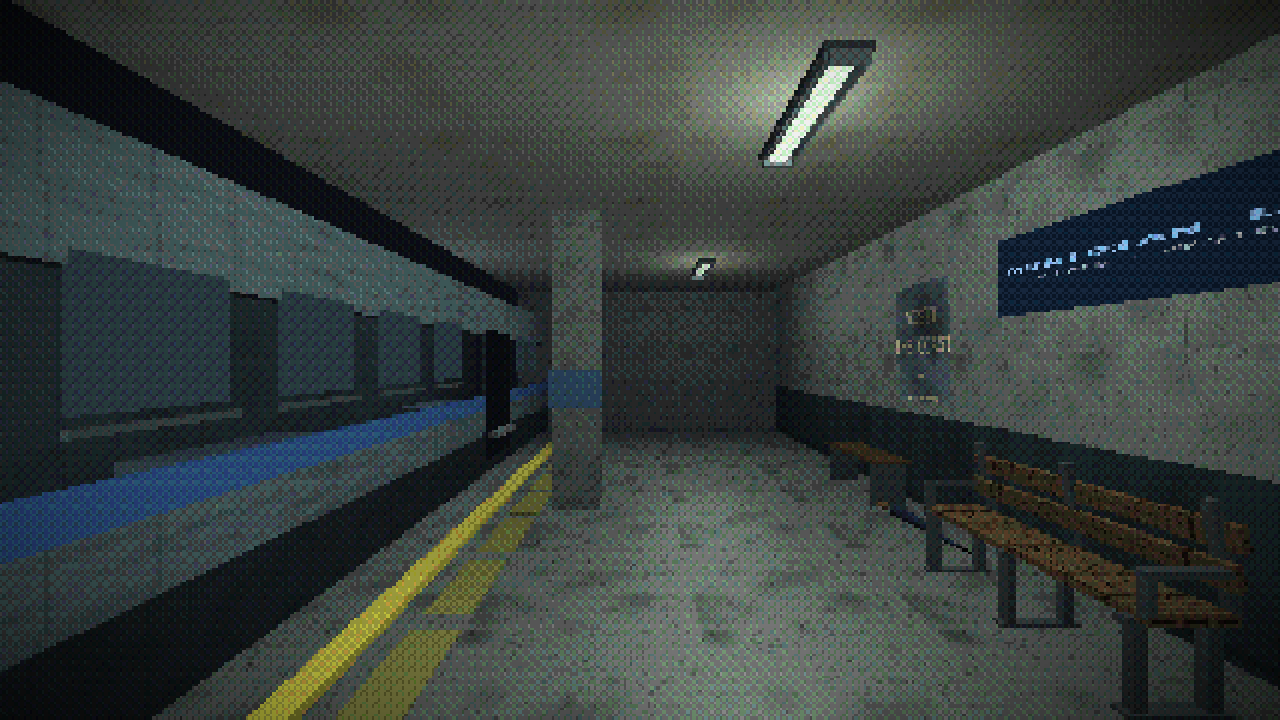
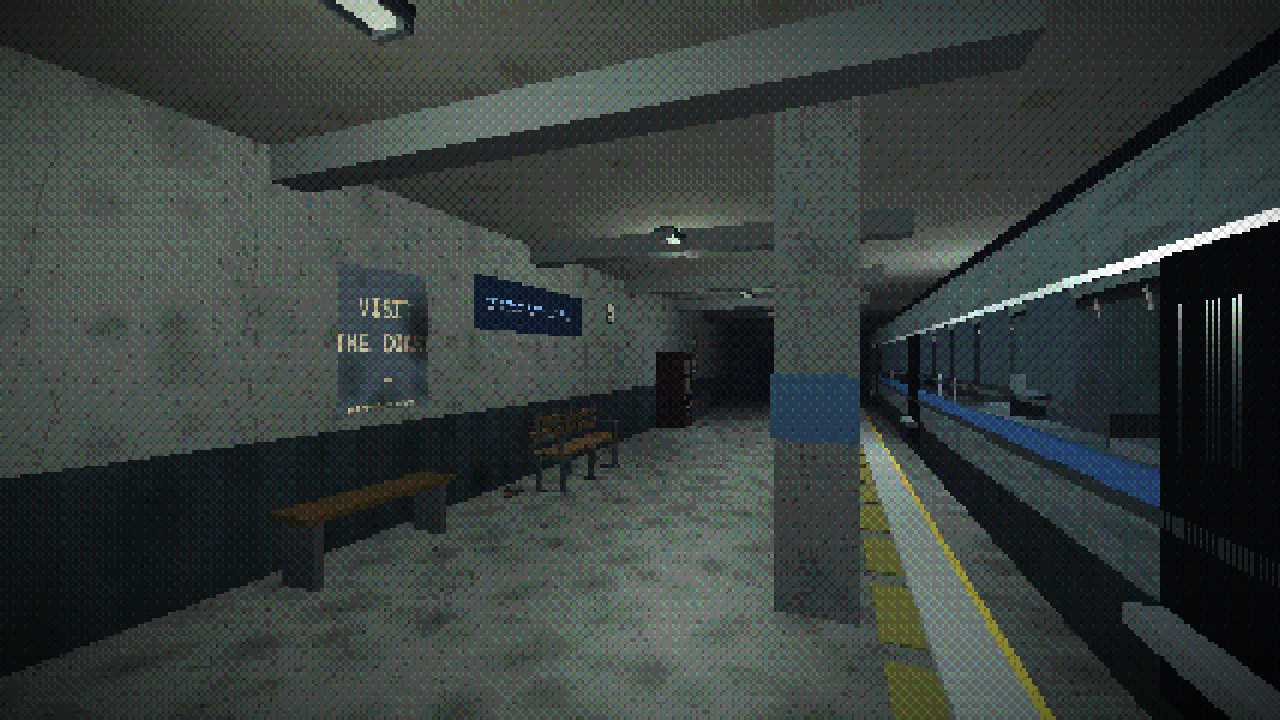
Remodel trains and elevator, add architecture, trim dream 1, cover the whole game in the smoke test
- dressTrain(): turned roofs, equipment pods, bogies, gangway bellows, cab
  ends with destination blinds and lamps, rub rails, seat backs, grab poles
  and straps for both trains; the metro train gets its own livery
- Elevator rebuilt: recessed-panel leaves, stepped architrave, grooved sill,
  three-floor indicator, call panel
- Architecture: corridor dado, skirting and downstand beams (gapped around
  doors), lobby coffers and corner piers, platform coping, tunnel portals,
  a real track bed with sleepers and rails in the metro
- Dream 1 runs the same beats about a third shorter
- Alley fence is mip-filtered so it no longer aliases at distance
- The far end of the street is a readable skyline
- Landing page says how the game is played
- Smoke test now plays the first half in order to ending A, runs ending B
  to its end screen, and covers the generator, safe and metro save repairs

Claude-Session: https://claude.ai/code/session_01NPrrmcU4PGvewUzaz11nhQ

diff --git a/public/game/engine.js b/public/game/engine.js
@@ -647,29 +647,36 @@ function mkMailboxes(){ const g=group(); const body=box(1.4,.7,.16,M.metal); bod
   // overflowing 8001 box
   const p1=box(.16,.02,.1,M.paper); p1.position.set(-.58,1.02,.13); p1.rotation.z=.3; g.add(p1);
   const p2=p1.clone(); p2.position.set(-.55,.98,.15); p2.rotation.z=-.4; g.add(p2); return g; }
-function mkElevator(){ const g=group(); const frame=box(1.6,2.3,.14,M.metalDark); frame.position.y=1.15; g.add(frame);
+function mkElevator(){ const g=group();
+  put(g,box(1.6,2.3,.14,M.metalDark),0,1.15,0);                                             // shaft surround
+  put(g,box(1.44,2.08,.01,M.black),0,1.05,.076);                                            // the dark of the car, behind the doors
+  // brushed steel leaves, each with a recessed panel and a scuffed kick plate
   const doorTex=tex((g2,s)=>{ g2.fillStyle="#7d8288"; g2.fillRect(0,0,s,s);
     for(let i=0;i<s;i+=3){ g2.fillStyle=i%9?"#767b81":"#868b91"; g2.fillRect(i,0,1,s); }
     g2.fillStyle="rgba(30,32,36,.25)"; g2.fillRect(0,0,s,10); g2.fillRect(0,s-14,s,14);
     for(let i=0;i<26;i++){ g2.fillStyle="rgba(40,42,46,.18)"; g2.fillRect(Math.random()*s,Math.random()*s,2,5+Math.random()*10); } },128);
-  const dm=new THREE.MeshLambertMaterial({map:doorTex});
-  const dl=box(.7,2.08,.06,dm); dl.position.set(-.37,1.05,.06); g.add(dl);
-  const dr=box(.7,2.08,.06,dm); dr.position.set(.37,1.05,.06); g.add(dr);
-  g.userData.leaves=[dl,dr];
-  put(g,box(1.44,2.08,.01,M.black),0,1.05,.076);                                             // the dark of the car, behind the doors
-  const sill2=box(1.5,.05,.22,M.metal); sill2.position.set(0,.025,.08); g.add(sill2);
-  const dial=new THREE.Mesh(new THREE.CircleGeometry(.14,16,Math.PI*.15,Math.PI*.7),new THREE.MeshLambertMaterial({color:0x8a8064})); dial.position.set(0,2.42,.08); g.add(dial);
-  const needle=box(.015,.12,.01,M.black); needle.position.set(-.04,2.44,.09); needle.rotation.z=.5; g.add(needle);
-  const fplate=box(.34,.14,.03,M.metalDark); fplate.position.set(0,2.22,.085); g.add(fplate);
-  const fnum=new THREE.Mesh(new THREE.PlaneGeometry(.26,.1),new THREE.MeshBasicMaterial({transparent:true,
-    map:tex((g2,s)=>{ g2.clearRect(0,0,s,s); g2.fillStyle="#c89a4a"; g2.font="bold 64px Courier New"; g2.textAlign="center"; g2.fillText("▾",s/2,s/2+22); },128)}));
-  fnum.position.set(0,2.22,.102); g.add(fnum);
-  const panel=box(.13,.24,.045,M.metal); panel.position.set(.95,1.1,.05); g.add(panel);
-  const btn=new THREE.Mesh(new THREE.CylinderGeometry(.024,.024,.02,10),new THREE.MeshBasicMaterial({color:0xc89a4a})); btn.rotation.x=Math.PI/2; btn.position.set(.95,1.12,.078); g.add(btn);
-  const btn2=new THREE.Mesh(new THREE.CylinderGeometry(.024,.024,.02,10),new THREE.MeshLambertMaterial({color:0x3c4046})); btn2.rotation.x=Math.PI/2; btn2.position.set(.95,1.05,.078); g.add(btn2);
-  for(const a of[-.78,.78])put(g,box(.06,2.3,.2,M.metal),a,1.15,.04);                       // proud architrave
-  put(g,box(1.62,.08,.2,M.metal),0,2.32,.04);
-  const il=new THREE.PointLight(0xc89a4a,.6,3.6,1.5); il.position.set(0,2.2,.5); g.add(il);  // the indicator is the only warm thing in the hall
+  const dm=wetMat(new THREE.MeshLambertMaterial({map:doorTex,color:0xa8acb0}),.1,20), inset=lam(0x565c62);
+  const leaf=x=>{ const d=box(.7,2.08,.06,dm); d.position.set(x,1.05,.06); g.add(d);
+    put(d,box(.46,1.3,.012,inset),0,.18,.034); put(d,box(.66,.26,.012,lam(0x4a4e52)),0,-.88,.034);
+    put(d,box(.012,2.08,.064,M.black),x<0?.35:-.35,0,.002); return d; };
+  const dl=leaf(-.37), dr=leaf(.37); g.userData.leaves=[dl,dr];
+  // stepped architrave and a grooved sill
+  for(const a of[-.78,.78]){ put(g,box(.08,2.3,.2,M.metal),a,1.15,.04); put(g,box(.05,2.24,.26,M.chrome),a*.97,1.12,.05); }
+  put(g,box(1.66,.1,.22,M.metal),0,2.33,.04);
+  put(g,box(1.5,.05,.24,M.metal),0,.025,.09); for(let i=0;i<5;i++)put(g,box(1.44,.008,.012,M.black),0,.052,.0+i*.045);
+  // transom: an indicator that knows three floors and is honest about only one of them
+  put(g,box(1.0,.3,.05,lam(0x15181c)),0,2.2,.09);
+  const ind=new THREE.Mesh(new THREE.PlaneGeometry(.92,.24),new THREE.MeshBasicMaterial({map:tex((g2,s)=>{ g2.fillStyle="#0c0e10"; g2.fillRect(0,0,s,s);
+    g2.font="bold 56px Courier New"; g2.textAlign="center"; g2.textBaseline="middle";
+    [["G",.2,"#5a4424"],["8",.5,"#f0b450"],["21",.8,"#5a4424"]].forEach(([t,x,c])=>{ g2.fillStyle=c; g2.fillText(t,s*x,s*.5); });
+    g2.strokeStyle="#3a3020"; g2.lineWidth=3; g2.strokeRect(4,s*.22,s-8,s*.56); },256)}));
+  ind.material.map.repeat.set(1,.56); ind.material.map.offset.set(0,.22); put(g,ind,0,2.2,.117);
+  // call panel: two buttons, one of which still lights
+  put(g,box(.15,.3,.04,M.chrome),.95,1.1,.05);
+  put(g,rod(.026,.026,.02,10,new THREE.MeshBasicMaterial({color:0xe0a850})),.95,1.16,.076,Math.PI/2);
+  put(g,rod(.026,.026,.02,10,lam(0x3c4046)),.95,1.05,.076,Math.PI/2);
+  put(g,box(.09,.03,.006,M.black),.95,.975,.072);
+  const il=new THREE.PointLight(0xc89a4a,.6,3.6,1.5); il.position.set(0,2.2,.5); g.add(il);
   return g; }
 function mkPillBottle(){ const g=group(); const b=new THREE.Mesh(new THREE.CylinderGeometry(.03,.03,.09,8),new THREE.MeshLambertMaterial({color:0x9a6a34})); b.position.y=.045; g.add(b);
   const cap=new THREE.Mesh(new THREE.CylinderGeometry(.032,.032,.02,8),M.white); cap.position.y=.1; g.add(cap); return g; }
@@ -1552,6 +1559,43 @@ function mkSafe(){ const g=group();
   for(let i=0;i<4;i++)put(door,box(.2,.02,.02,M.chrome),.12,0,.05,0,0,i*Math.PI/4);         // four-spoke handle: a slot for four pieces
   for(const y of[-.17,.17])put(g,rod(.022,.022,.1,6,M.metal),-.27,.3+y,.29);
   return g; }
+/* ── rolling stock: shared detailing for both trains ──
+   The carriages were plain extrusions. This adds what makes a box read as a train: a turned
+   roof with equipment pods, bogies, gangway bellows, a cab end with a destination blind and
+   lamps, rub rails, and an interior with seat backs, grab poles and straps.
+   The platform side is -z; +x is the trailing end. o = {cars:[centre x], carLen, hz, roofY, doors:[x], seats:[x], seatZ, blind} */
+function dressTrain(g,o){ const dk=lam(0x23292d), roofM=lam(0x3a4246), hz=o.hz, first=o.cars[0]-o.carLen/2, last=o.cars[o.cars.length-1]+o.carLen/2;
+  for(const cx of o.cars){
+    for(const sz of[-1,1])put(g,box(o.carLen,.12,.4,roofM),cx,o.roofY+.16,sz*(hz-.2),sz*.5);          // turned-down roof shoulders
+    put(g,box(o.carLen-.3,.08,hz*1.25,roofM),cx,o.roofY+.24,0);
+    for(const px of[-.26,.26]){ put(g,box(1.7,.16,.86,dk),cx+px*o.carLen,o.roofY+.34,0);                // equipment pods
+      for(let i=0;i<5;i++)put(g,box(.04,.165,.8,M.black),cx+px*o.carLen-.6+i*.3,o.roofY+.34,0); }
+    for(const bx of[-.32,.32]){ const x=cx+bx*o.carLen;                                                  // bogies
+      put(g,box(1.9,.2,hz*1.5,dk),x,.02,0);
+      for(const wx of[-.6,.6])for(const sz of[-1,1]){ put(g,rod(.3,.3,.14,12,M.rubber),x+wx,-.08,sz*(hz-.3),Math.PI/2);
+        put(g,rod(.14,.14,.15,8,M.metal),x+wx,-.08,sz*(hz-.3),Math.PI/2); } }
+    put(g,box(o.carLen*.36,.3,hz*1.2,dk),cx,.04,0);                                                      // underfloor equipment case
+    put(g,box(o.carLen,.05,.04,M.chrome),cx,2.02,-(hz+.03)); put(g,box(o.carLen,.07,.05,dk),cx,.98,-(hz+.035));   // cant rail, rub rail
+  }
+  for(let i=0;i<o.cars.length-1;i++)put(g,box(o.cars[i+1]-o.cars[i]-o.carLen+.12,1.95,hz*1.45,M.rubber),(o.cars[i]+o.cars[i+1])/2,1.3,0);   // gangway bellows
+  // cab ends: leading (-x) shows white, trailing (+x) shows red
+  for(const [x,dir,lamp] of[[first,-1,0xfff0d0],[last,1,0xb02018]]){
+    put(g,box(.14,2.0,hz*2,lam(0x4a5358)),x+dir*.05,1.36,0);
+    put(g,box(.03,.62,hz*2-.5,M.glassDark),x+dir*.125,1.72,0);
+    put(g,box(.03,.9,.07,dk),x+dir*.13,1.6,0);                                                            // centre pillar
+    const bl=new THREE.Mesh(new THREE.PlaneGeometry(hz*1.2,.2),new THREE.MeshBasicMaterial({map:tex((c,s)=>{ c.fillStyle="#0a0a08"; c.fillRect(0,0,s,s);
+      c.fillStyle="#e8a838"; c.font="bold 38px Courier New"; c.textAlign="center"; c.fillText(o.blind,s/2,s/2+13); },256)}));
+    bl.material.map.repeat.set(1,.3); bl.material.map.offset.set(0,.35); put(g,bl,x+dir*.126,2.2,0,0,dir*Math.PI/2);
+    for(const sz of[-1,1])put(g,rod(.1,.1,.04,10,new THREE.MeshBasicMaterial({color:lamp})),x+dir*.13,.95,sz*(hz-.34),0,0,Math.PI/2);
+    put(g,box(.3,.16,.3,dk),x+dir*.24,.42,0); put(g,box(.2,.5,hz*1.7,dk),x+dir*.1,.3,0);                  // coupler, buffer beam
+  }
+  // interior
+  for(const dx of o.doors)for(const sx of[-.6,.6])put(g,rod(.018,.018,1.78,6,M.chrome),dx+sx,1.5,-hz+.42);
+  for(const sx of o.seats){ put(g,box(1.36,.44,.07,lam(0x3c444c)),sx,o.seatY+.3,o.seatZ+.22,-.12); put(g,box(.04,.3,.42,dk),sx-.68,o.seatY+.12,o.seatZ); put(g,box(.04,.3,.42,dk),sx+.68,o.seatY+.12,o.seatZ); }
+  for(const cx of o.cars){ put(g,rod(.014,.014,o.carLen-.8,5,M.chrome),cx,2.16,-.1,0,0,Math.PI/2);
+    for(let x=cx-o.carLen/2+.8;x<cx+o.carLen/2-.6;x+=.7)put(g,box(.03,.2,.015,lam(0x8a8478)),x,2.05,-.1,(x*7%1-.5)*.3); }   // straps, some still swinging
+}
+
 /* ════════ ZONE: STREET (beat 4 + Ending B exit) ════════ */
 /* ════════ ZONE: ARRIVAL — the last train in (opening) ════════ */
 let arrTrain=null, arrDoors=[];
@@ -1641,6 +1685,8 @@ inZone("arrival",()=>{
     const sill=box(1.0,.08,.16,M.metal); sill.position.set(0,.61,-.96); dgroup.add(sill);
     dgroup.position.set(dx,0,0);
     dgroup.userData.dl=dl; dgroup.userData.dr=dr; arrTrain.add(dgroup); arrDoors.push(dgroup); }
+  for(const d of arrDoors)for(const lf of[d.userData.dl,d.userData.dr])put(lf,box(.3,.55,.02,M.glassDark),0,.38,-.03);   // door glazing
+  dressTrain(arrTrain,{cars:[0],carLen:22,hz:.85,roofY:2.36,doors:[-7,0,7],seats:[-8,-4,0,4,8],seatY:.85,seatZ:.42,blind:"TERMINATES"});
   arrTrain.position.set(ox+11,0,7.3); scene.add(arrTrain);
   // Train collision follows the stationary arrival train, leaving a real
   // doorway gap at the middle carriage entrance.
@@ -1842,7 +1888,7 @@ inZone("dream1",()=>{
 });
 function dream1Sequence(){
   dread=0;
-  seq([
+  seq(([
     [800,()=>say(null,"Two gray walls, facing each other. White light lives in their seams like something breathing.",5200)],
     [5400,()=>say(null,"Arches. Behind each pane of tinted glass: something kept. Something like a dream, pinned.",5200)],
     [5400,()=>{ figure.visible=true; figure.position.set(100,0,9); AU.drone();
@@ -1861,7 +1907,7 @@ function dream1Sequence(){
     [4600,()=>{ dread=1; AU.sting(); AU.thud();
       say(null,"Top. Bottom. Under. Between the marrow. The floor learns a new color.",4600); }],
     [5000,()=>{ figure.visible=false; fadeTo(()=>wakeIn8001(),1600); }],
-  ]);
+  ]).map(([d,f])=>[d*.68,f]));   // same beats, a third shorter
 }
 function wakeIn8001(){
   GS.dream1Done=true; dread=.3;
@@ -2100,7 +2146,8 @@ inZone("alley",()=>{
   { const fenceTex=tex((g,s)=>{ g.clearRect(0,0,s,s); g.strokeStyle="rgba(120,126,134,.8)"; g.lineWidth=2;
       for(let i2=-8;i2<16;i2++){ g.beginPath(); g.moveTo(i2*16,0); g.lineTo(i2*16+s,s); g.stroke();
         g.beginPath(); g.moveTo(i2*16+s,0); g.lineTo(i2*16,s); g.stroke(); } },128);
-    fenceTex.wrapS=fenceTex.wrapT=THREE.RepeatWrapping; fenceTex.repeat.set(9,5);
+    fenceTex.wrapS=fenceTex.wrapT=THREE.RepeatWrapping; fenceTex.repeat.set(11,6);
+    fenceTex.magFilter=THREE.LinearFilter; fenceTex.minFilter=THREE.LinearMipmapLinearFilter; fenceTex.generateMipmaps=true;
     const fence=new THREE.Mesh(new THREE.PlaneGeometry(6,3.2),new THREE.MeshBasicMaterial({map:fenceTex,transparent:true,side:THREE.DoubleSide,depthWrite:false}));
     fence.position.set(ox+20.3,1.6,3); fence.rotation.y=Math.PI/2; scene.add(fence);
     for(const fz of[.4,3,5.6]){ const fp=new THREE.Mesh(new THREE.CylinderGeometry(.05,.05,3.3,7),M.metalDark); fp.position.set(ox+20.3,1.65,fz); scene.add(fp); }
@@ -2780,6 +2827,8 @@ inZone("metro",()=>{
   // Visible middle-car boarding bay aligned with the gameplay trigger.
   for(const xDoor of[-.58,.58]){ const jamb=box(.12,1.65,.1,M.metalDark); jamb.position.set(xDoor,1.35,-1.02); trainGrp.add(jamb); }
   const doorHeader=box(1.3,.14,.1,M.metalDark); doorHeader.position.set(0,2.2,-1.02); trainGrp.add(doorHeader);
+  for(let c=0;c<3;c++)put(trainGrp,box(8.6,.16,.05,lam(0x7a3a2a)),c*9-9,1.08,-1.09);     // oxblood waistband: not the line he came in on
+  dressTrain(trainGrp,{cars:[-9,0,9],carLen:8.6,hz:1.1,roofY:2.44,doors:[0],seats:[-11.7,-9,-6.3,-2.7,0,2.7,6.3,9,11.7],seatY:.86,seatZ:.38,blind:"HER TOWN"});
   trainGrp.position.set(ox+42,0,8); trainGrp.userData.arriving=false;
   addCollider(ox+9,8,8,2.0,"metroTrain");
   addCollider(ox+19,8,8,2.0,"metroTrain");
@@ -2909,6 +2958,10 @@ inZone("arrival",()=>{ const ox=900;
   pl(0xe8a858,1.25,8,ox+21.7,2.2,3.4);                                  // WAY OUT: sodium spill from the stairs
   for(const x of[ox+3.5,ox+11,ox+18.5])pl(0xa8c8dc,.75,5.5,x,1.95,7.4); // the carriage is still lit, and empty
   const fx=fixturesOf("arrival"); if(fx[1])flickers.push(fx[1]);        // one tube is dying
+  for(let x=ox+1.2;x<ox+22;x+=3.4){ const b=box(.3,.26,4.8,lam(0x6a6e6a)); b.position.set(x,3.07,3.6); scene.add(b); }   // downstand beams
+  { const cop=box(23,.07,.34,lam(0x8a8c86)); cop.position.set(ox+11,.036,5.86); scene.add(cop); }                     // platform coping
+  for(const x of[ox-.3,ox+22.3]){ const ring=box(.3,3.2,2.2,lam(0x1a1c1e)); ring.position.set(x,1.6,7.2); scene.add(ring);   // tunnel portals
+    const arch=box(.34,.5,2.4,surf(TEX.concrete,2.4,.5,1)); arch.position.set(x,2.95,7.2); scene.add(arch); }
   // tactile paving, a bin, an abandoned umbrella: someone was here, earlier
   for(let x=ox+.5;x<ox+22;x+=1){ const t=box(.8,.012,.3,lam(0x6a6230)); t.position.set(x,.008,5.6); scene.add(t); }
   { const bin=rod(.22,.18,.7,10,M.metalDark); bin.position.set(ox+16.6,.35,1.6); scene.add(bin); addCollider(ox+16.6,1.6,.5,.5);
@@ -2939,9 +2992,13 @@ inZone("street",()=>{ const ox=-100;
   // overhead cables and downpipes
   for(const z of[7.5,15.5,23]){ for(let i=0;i<6;i++){ const t=i/5; const c=box(1.9,.025,.025,M.black); c.position.set(ox-.6+t*9.3,7.6-Math.sin(t*Math.PI)*.7,z); c.rotation.z=-Math.cos(t*Math.PI)*.22; scene.add(c); } }
   for(const [dx,dz] of[[ox-1.4,9.6],[ox+9.4,4.8],[ox+9.4,25]]){ const d=rod(.07,.07,9,7,M.metalDark); d.position.set(dx,4.5,dz); scene.add(d); }
-  // the far end of the street is the rest of the city
-  { const sk=TEX.skyline.clone(); sk.needsUpdate=true; sk.repeat.set(2,1);
-    const far=new THREE.Mesh(new THREE.PlaneGeometry(30,11),new THREE.MeshBasicMaterial({map:sk,fog:false,color:0x9098a8})); far.position.set(ox+4,5.2,44); far.rotation.y=Math.PI; scene.add(far); }
+  // the far end of the street is the rest of the city: a sodium horizon with towers cut out of it
+  { const sk=tex((g,s)=>{ const gr=g.createLinearGradient(0,0,0,s); gr.addColorStop(0,"#06080e"); gr.addColorStop(.55,"#141624"); gr.addColorStop(.86,"#4a3428"); gr.addColorStop(1,"#6a4a30");
+      g.fillStyle=gr; g.fillRect(0,0,s,s); let x=0;
+      while(x<s){ const w=10+Math.random()*22,h=s*(.3+Math.random()*.42); g.fillStyle="#07080c"; g.fillRect(x,s-h,w-1,h);
+        for(let wy=s-h+5;wy<s-6;wy+=8)for(let wx=x+2;wx<x+w-4;wx+=5)if(Math.random()<.2){ g.fillStyle=Math.random()<.75?"#e8c070":"#9cc8e0"; g.fillRect(wx,wy,2,3); }
+        x+=w; } },256);
+    const far=new THREE.Mesh(new THREE.PlaneGeometry(26,13),new THREE.MeshBasicMaterial({map:sk,fog:false})); far.position.set(ox+4,6.2,36); far.rotation.y=Math.PI; scene.add(far); }
   pl(0x48c070,.9,7,ox+4,1.6,28.2);                                      // SUBWAY sign washes its own steps
   pl(0xe0b070,.45,6,ox+4,2.4,.9);                                        // the stoop: home, the warmest thing on the street
 });
@@ -2967,6 +3024,20 @@ inZone("floor8",()=>{
   { const mat=box(.7,.02,.45,lam(0x3a3028)); mat.position.set(16.95,.012,1.72); scene.add(mat); }   // 8007's doormat, a year unmoved
 });
 
+/* institutional corridor: two-tone wall with a dado rail on the blank side, and downstand beams */
+function corridorTrim(zone,x0,x1,z,ceil,paint){
+  // leave the wall alone wherever a door stands in it
+  const gaps=[]; zoneGroups[zone].traverse(o=>{ if(o.userData.isDoor&&Math.abs(o.position.z-z)<.4&&Math.abs(o.rotation.y)<.2)gaps.push([o.position.x-.2,o.position.x+1.1]); });
+  gaps.sort((p,q)=>p[0]-q[0]); const segs=[]; let cur=x0;
+  for(const [g0,g1] of gaps){ if(g0>cur)segs.push([cur,Math.min(g0,x1)]); cur=Math.max(cur,g1); } if(cur<x1)segs.push([cur,x1]);
+  for(const [s0,s1] of segs){ const len=s1-s0, mx=(s0+s1)/2; if(len<.15)continue;
+    const lower=box(len,1.0,.02,lam(paint)); lower.position.set(mx,.5,z+.095); scene.add(lower);
+    const rail=box(len,.07,.05,M.woodDark); rail.position.set(mx,1.03,z+.11); scene.add(rail);
+    const skirt=box(len,.14,.04,M.woodDark); skirt.position.set(mx,.07,z+.105); scene.add(skirt); }
+  for(let x=x0+1.6;x<x1-.6;x+=2.9){ const b=box(.22,.16,2.04,lam(0x8a8c84)); b.position.set(x,ceil-.08,z+1.1); scene.add(b); } }
+inZone("floor8",()=>corridorTrim("floor8",.3,17.9,0,HH,0x4a5a54));
+inZone("floor21",()=>corridorTrim("floor21",600.3,617.9,0,3.0,0x5a5248));
+
 /* ── 5 · LOBBY: night porter's lamp, a dying tube, dark corners ── */
 inZone("lobbyG",()=>{ const ox=200;
   const fx=fixturesOf("lobbyG"); fx.forEach((f,i)=>{ f.userData.light.intensity=.85; if(i===0)flickers.push(f); });
@@ -2974,6 +3045,9 @@ inZone("lobbyG",()=>{ const ox=200;
   pl(0x58c080,.5,3.5,ox+5,2.45,.6);                                     // EXIT, green, over doors that are chained
   glowPlane(.5,.16,0x3aa868,ox+5,2.5,.2);
   wetGround("lobbyG",.3,30);
+  for(const z of[1.5,4.5]){ const b=box(10,.2,.26,lam(0x76786e)); b.position.set(ox+5,2.9,z); scene.add(b); }      // coffered ceiling
+  for(const x of[ox+2.5,ox+7.5]){ const b=box(.26,.2,6,lam(0x76786e)); b.position.set(x,2.9,3); scene.add(b); }
+  for(const [x,z] of[[ox+.14,.14],[ox+9.86,.14],[ox+.14,5.86],[ox+9.86,5.86]]){ const c=box(.3,3,.3,surf(TEX.concrete,.3,3,.8)); c.position.set(x,1.5,z); scene.add(c); }   // corner piers
   { const mat=box(1.6,.015,.9,lam(0x1c1a16)); mat.position.set(ox+5,.01,1.0); scene.add(mat); }
   for(const [x,z] of[[ox+9.4,.6],[ox+9.4,5.4]]){ const pot=rod(.2,.15,.36,8,lam(0x4a3428)); pot.position.set(x,.18,z); scene.add(pot);
     for(let i=0;i<6;i++){ const lf=box(.05,.5+Math.random()*.3,.02,lam(0x2a3420)); lf.position.set(x+(Math.random()-.5)*.14,.6,z+(Math.random()-.5)*.14); lf.rotation.set((Math.random()-.5)*.7,Math.random()*3,(Math.random()-.5)*.7); scene.add(lf); } }   // dead ferns
@@ -3044,9 +3118,18 @@ inZone("terrace",()=>{ const ox=700;
 /* ── 11 · METRO: the train brings its own light ── */
 inZone("metro",()=>{ const ox=800;
   wetGround("metro",.3,24);
+  // a real track bed: ballast, sleepers, two running rails and a third rail under a guard board
+  { const bal=box(28,.1,3.6,lam(0x1c1c1e)); bal.position.set(ox+14,-.76,8); scene.add(bal);
+    for(let x=ox+.4;x<ox+28;x+=.7){ const sl=box(.24,.08,2.6,lam(0x2a221a)); sl.position.set(x,-.68,8); scene.add(sl); }
+    for(const z of[7.28,8.72]){ const r=box(28,.12,.07,M.chrome); r.position.set(ox+14,-.6,z); scene.add(r); }
+    const third=box(28,.08,.08,M.metalDark); third.position.set(ox+14,-.52,9.5); scene.add(third);
+    const guard=box(28,.03,.22,lam(0x4a3a20)); guard.position.set(ox+14,-.44,9.5); scene.add(guard);
+    const face=box(28,.84,.08,surf(TEX.concrete,28,.84,1,0x6a6a66)); face.position.set(ox+14,-.4,6.12); scene.add(face);      // platform face
+    const cop=box(28,.07,.34,lam(0x8a8c86)); cop.position.set(ox+14,.036,5.84); scene.add(cop); }
+  for(let x=ox+2;x<ox+28;x+=3.6){ const b=box(.3,.26,6,lam(0x6a6e6a)); b.position.set(x,3.07,3); scene.add(b); }
   for(const cx of[-9,0,9]){ const L=new THREE.PointLight(0xe0c890,.85,6,1.5); L.position.set(cx,1.9,-.2); trainGrp.add(L); }
   { const hl=new THREE.SpotLight(0xf0e8c8,2.2,26,.5,.6,1.3); hl.position.set(-13.4,1.3,0); hl.target.position.set(-24,1.0,-.6); trainGrp.add(hl); trainGrp.add(hl.target);
-    for(const z of[-.6,.6]){ const lens=new THREE.Mesh(new THREE.CircleGeometry(.16,10),new THREE.MeshBasicMaterial({color:0xfff4d8})); lens.position.set(-13.32,1.2,z); lens.rotation.y=-Math.PI/2; trainGrp.add(lens); } }
+  }
   pl(0x3a5a78,.6,10,ox+27,1.6,8);                                       // the tunnel mouth breathes cold
 });
 
@@ -3531,6 +3614,8 @@ idbGetAll().then(all=>{ if(all.length&&!resumePending)$("continueBtn").classList
 /* ── landing front page: PLAY reveals the title screen ── */
 { const dismiss=()=>{ $("landing").classList.add("gone"); };
   $("ldPlay1").onclick=dismiss; $("ldPlay2").onclick=dismiss;
+  { const n=document.createElement("div"); n.id="ldHow"; n.textContent="Keyboard and mouse, or touch. Brightness, look speed and volume are in the pause menu.";
+    n.style.cssText="margin-top:14px;font:11px 'Courier New',monospace;letter-spacing:1.5px;opacity:.6"; const a=$("ldPlay1").parentNode; a.parentNode.insertBefore(n,a.nextSibling); }
   $("ldMore").onclick=()=>$("ldFile").scrollIntoView({behavior:"smooth"});
   $("ldContinue").onclick=()=>{ dismiss(); openPause(true); };
   idbGetAll().then(all=>{ if(all.length)$("ldContinue").style.display="inline-block"; });

diff --git a/README.md b/README.md
@@ -37,7 +37,9 @@ The pause menu has brightness, look-speed and volume sliders; they are remembere
 | ![Arrival station](docs/screenshots/arrival-station.png) | ![21st floor corridor](docs/screenshots/21st-floor-corridor.png) |
 | *The last train lets him out into a station the colour of an old bruise.* | *The 21st floor — numbered doors, and an umbrella left on a bench.* |
 | ![Roof terrace](docs/screenshots/roof-terrace.png) | ![Street](docs/screenshots/street.png) |
-| *The terrace: a bench facing the city, and the string lights she hung.* | *Haldane Court's street, in the rain.* |
+| *The terrace: a bench facing the city, and the string lights she hung.* | *The end of the street: the subway, and the rest of the city.* |
+| ![Metro train](docs/screenshots/metro-train.png) | ![Landing page](docs/screenshots/landing.png) |
+| *The train she has been waiting for.* | *The case-file landing page.* |
 
 The in-game screenshots above are unretouched frames with the flashlight off and the HUD hidden.
 
@@ -89,7 +91,7 @@ npm run build
 npm run test:smoke
 ```
 
-The smoke test serves `out/`, boots the game in headless Chromium and drives it through the engine's own functions: every zone ticks without errors, pause holds scripted timers, the terrace puzzles solve and their hints escalate, the ending B route runs through, and an in-game load resumes correctly. It needs a Chromium for Playwright:
+The smoke test serves `out/`, boots the game in headless Chromium and plays it through the engine's own functions. It covers the whole game: the first half in order (arrival, dream, phone, the dial puzzle, the chase, the box room, the terrace) to ending A; then a fresh session for the terrace puzzles and their escalating hints, the ending B route to its end screen, pause, in-game load, and three saves taken mid-beat that used to soft-lock. It needs a Chromium for Playwright:
 
 ```bash
 npx playwright install chromium
